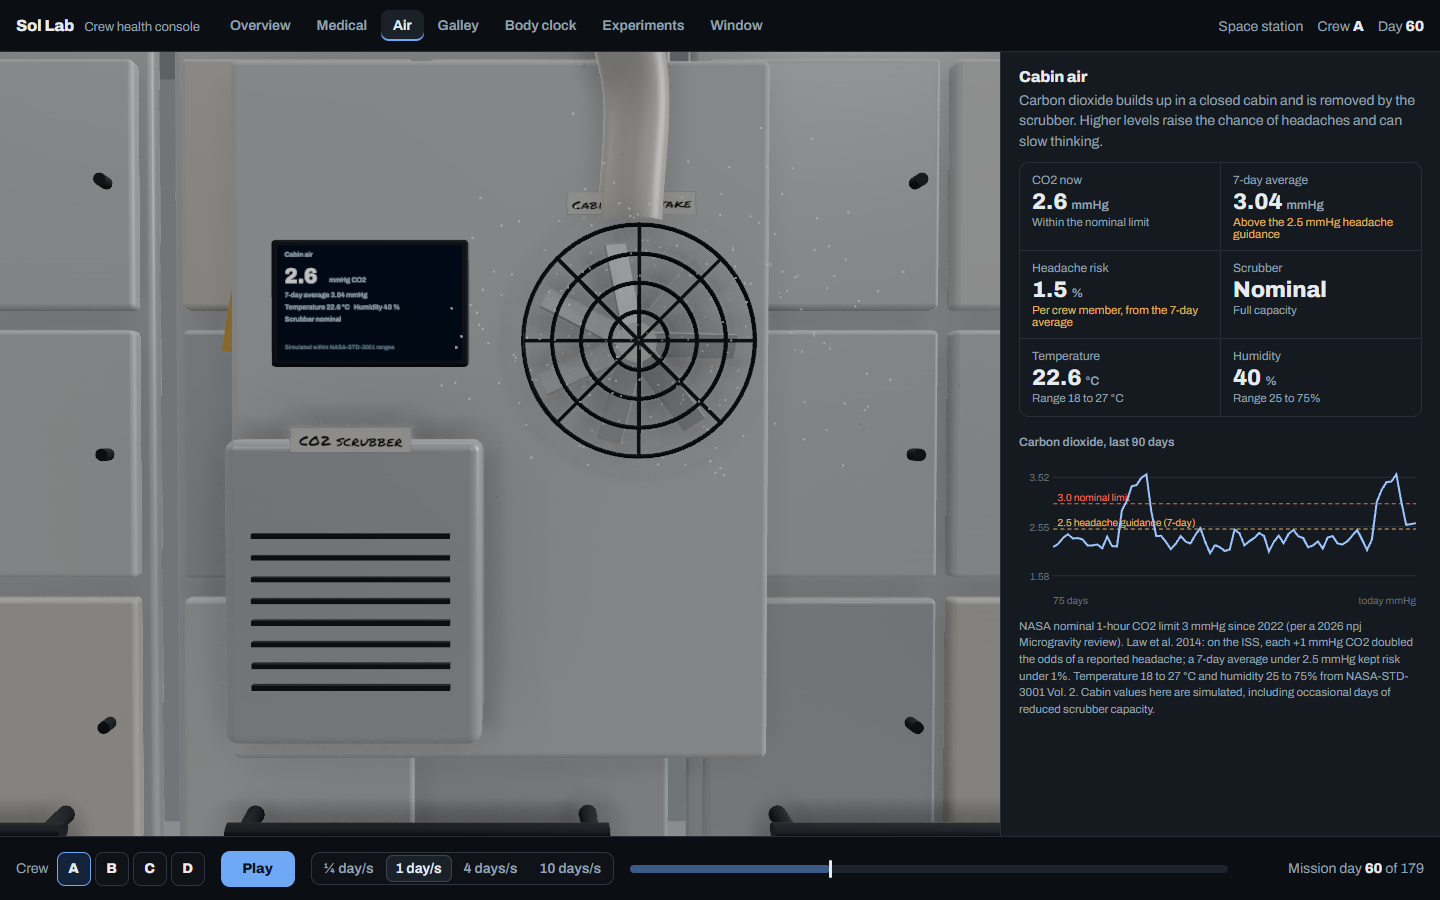
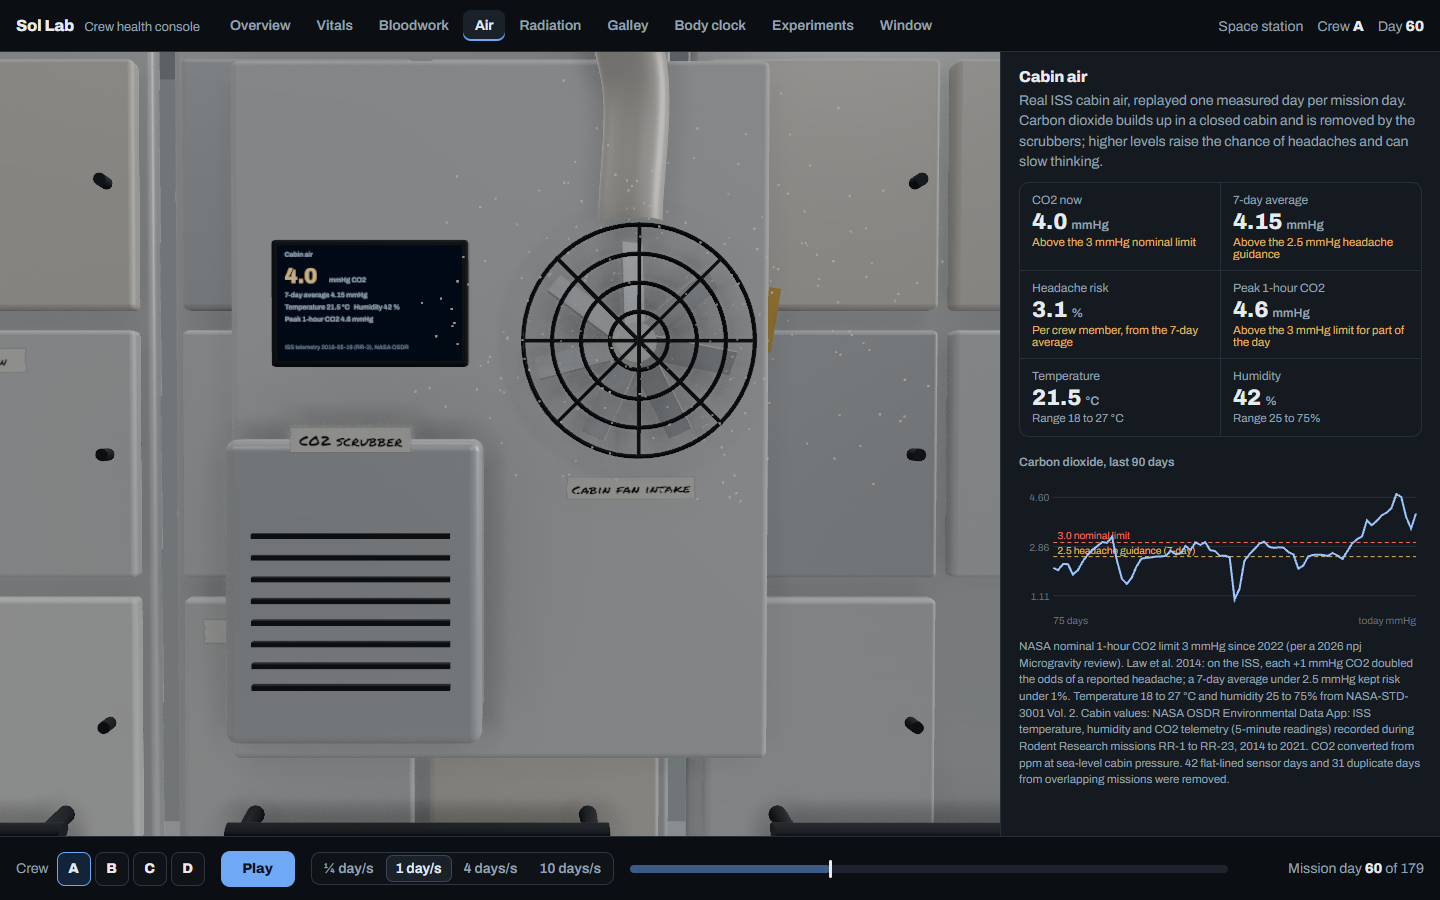
Gap analysis with 100 problems; radiation by ISS module
docs/GAP_ANALYSIS.md scores Sol Lab against VITA (strongest public entry)
and lists 100 problems by severity. Radiation panel adds a six-module dose
comparison from REM detectors (NASA OSDR RadLab, Dec 2019).

diff --git a/lab/src/main.js b/lab/src/main.js
@@ -311,6 +311,8 @@ async function boot() {
         <h3 id="radH">Daily dose</h3><div class="charts" id="radChart"></div>
         <h3>Where it comes from</h3>
         <p>Over these ${radDaily.length} days the station spent about ${Math.round(RAD.saa.minutes_per_day)} minutes a day in the South Atlantic Anomaly, where Earth's inner radiation belt dips low over South America, and collected ${Math.round(RAD.saa.share * 100)}% of its dose there. The rest is mostly galactic cosmic rays and outer-belt particles at high latitudes. The marker on the globe flies the real track of ${esc(RAD.track_date)}.</p>
+        <h3>By module (same detector type, Dec 2019)</h3><div class="bars" id="radMods">${(() => { const mx = Math.max(...RAD.modules.map((m) => m.dose)); return RAD.modules.map((m) => `<div class="row"><span>${esc(m.module)}</span><span class="track"><span class="fill ok" style="width:${((m.dose / mx) * 100).toFixed(1)}%;background:#6fa8f5"></span></span><span class="v">${Math.round(m.dose)} µGy/day</span></div>`).join(""); })()}</div>
+        <p class="src">${esc(RAD.modules_source)} The most exposed module received about ${(RAD.modules[RAD.modules.length - 1].dose / RAD.modules[0].dose).toFixed(1)} times the dose of the least, a difference shielding and where crew sleep can use. Detectors sit at fixed spots, so this is the dose at that spot, not the whole module.</p>
         <div class="legend"><span>Dose rate</span><i style="background:linear-gradient(90deg,#5a9ef2,#80d1b8,#f0c259,#f06b5c)"></i><span>2 to 300+ µGy/h</span></div>
         <p class="src">${esc(RAD.source)} Daily dose: time-weighted average rate on days with at least 20 hours of readings (${radDaily.length} days, ${esc(radDates[0])} to ${esc(radDates[radDates.length - 1])}); median ${Math.round(median)} µGy a day, in line with DLR's published 250 to 290 µGy a day for this detector. This is absorbed dose in a silicon detector. NASA's career limit (600 mSv) is set in effective dose, a different quantity that accounts for radiation type and the body's own shielding, so the two are not compared here.</p>`;
     },

diff --git a/lab/src/sim/realdata.test.js b/lab/src/sim/realdata.test.js
@@ -14,6 +14,8 @@ describe("real mission data files", () => {
     expect(top[1]).toBeGreaterThan(-90);
     expect(top[1]).toBeLessThan(0);
     expect(r.saa.share).toBeGreaterThan(0.3);
+    expect(r.modules.length).toBeGreaterThanOrEqual(5);
+    for (const m of r.modules) expect(m.dose).toBeGreaterThan(100), expect(m.dose).toBeLessThan(1500);
   });
 
   it("Inspiration4 bloodwork: four crew, seven draws, values inside physical bounds", () => {

diff --git a/lab/scripts/build_radiation.py b/lab/scripts/build_radiation.py
@@ -77,12 +77,28 @@ for t, r, lat, lon in rows:
         track.append([round((t - datetime.combine(day0, datetime.min.time())).total_seconds() / 3600, 4), round(lat, 2), round(lon, 2), round(r, 2)])
         last = t
 
+# Dose by module: the REM detectors log one daily-average rate per unit, in six US-segment
+# modules over the same days of Dec 2019 (lab/data-raw/radlab/modules_2019-12-*.csv), so the
+# modules can be compared on one instrument type.
+mods = {}
+for f in sorted(RAW.glob("modules_2019-12-*.csv")):
+    for r in csv.DictReader(open(f, encoding="utf-8")):
+        if r["instrument"] != "REM":
+            continue
+        try:
+            mods.setdefault(r["module"], []).append(float(r["absorbed_dose_rate"]) * 24)
+        except ValueError:
+            pass
+modules = sorted(({"module": m, "dose": round(sum(v) / len(v), 1), "days": len(v)} for m, v in mods.items()), key=lambda x: x["dose"])
+
 out = {
     "source": "NASA OSDR RadLab; DOSTEL-1 (DLR, DOSIS 3D) absorbed dose rate in silicon, ISS Columbus module, Jan to Apr 2022.",
     "unit_rate": "uGy/h", "unit_daily": "uGy/day",
-    "saa": saa,
+    "saa": saa, "modules": modules,
+    "modules_source": "NASA OSDR RadLab, REM detectors, daily average absorbed dose, Dec 2019.",
     "daily": days, "grid": grid, "track_date": day0.isoformat(), "track": track,
 }
 Path("public/data/radiation.json").write_text(json.dumps(out, separators=(",", ":")), encoding="utf-8")
 ds = [d["dose"] for d in days]
+print("modules", modules)
 print("days", len(days), "daily dose min/median/max", min(ds), sorted(ds)[len(ds) // 2], max(ds), "grid", len(grid), "track", len(track), day0, "saa", saa)

diff --git a/docs/GAP_ANALYSIS.md b/docs/GAP_ANALYSIS.md
@@ -1,0 +1,172 @@
+# Gap analysis: Sol Lab against the strongest entries
+
+Written 2026-11-02, 12 days before the event. Honest by design: every item here is something a judge could hold against us.
+
+## Who we are measuring against
+
+**1. VITA** ([Nav33dCodes/vita-astronaut-health-monitor](https://github.com/Nav33dCodes/vita-astronaut-health-monitor)), the strongest public entry for our challenge we can see today (pushed 2026-11-02). Full stack: .NET 10 API, Next.js 16, PostgreSQL, live SignalR streaming, NEWS2-style early-warning score, trend lines that estimate when a limit will be crossed, alert lifecycle with escalation, PDF and Excel reports, unit and integration tests, typed API, offline-tolerant client cache. Weaknesses: all vitals simulated, alarm-centred (the thing every other entry does), 2D dashboard, no validation study.
+
+**2. AstroBone** (mysunatislam/astrobone), the only other 3D entry found: a source-labelled 3D skeletal digital twin for bone health, Vite and three.js, explicit "not a diagnostic device". The repo returned 404 on 2026-11-02 (made private or deleted), so it may still be submitted. It overlaps our two selling points: 3D and labelling what is real.
+
+**3. What 2025 global winners had in common** (from `research_notes/judging-and-rules.md`): one idea a judge can repeat in a sentence, visible use of NASA data, a working demo a judge can open, and a short clear video. Polish of the story beat breadth of features.
+
+## Scorecard (our 11 criteria, 0 to 10, our honest estimate)
+
+| Criterion | Sol Lab | VITA | Gap |
+|---|---|---|---|
+| Impact | 7 | 7 | Our impact story is split between monitoring and self-experiments |
+| Creativity | 8 | 5 | Ahead |
+| Novelty | 7.5 | 4 | Ahead, but AstroBone overlaps on 3D and labelling |
+| Challenge fit | 7 | 9 | VITA is exactly "monitoring software"; our experiments read as adjacent |
+| Scientific rigor | 9 | 5 | Ahead (pre-registered studies, cited limits) |
+| Depth of real data | 8.5 | 3 | Ahead now (ISS air, ISS radiation, Inspiration4 blood, real sleep diaries, USDA) |
+| Feasibility | 7 | 8 | VITA is built like a deployable product |
+| Profile fit (biomed) | 8 | 6 | Ahead |
+| Interactive and visual appeal | 8 | 7 | Ahead in 3D, behind in finish and responsiveness |
+| Technical depth | 8 | 8 | Different kinds: our statistics vs their systems engineering |
+| Uniqueness | 8 | 4 | Ahead |
+| **Mean** | **7.8** | **6.0** | |
+
+Where we lose: challenge fit, feasibility, and engineering finish. Where we win: rigor, data, novelty.
+
+## The five gaps that matter most
+
+1. **The story is two products.** A crew health console and a self-experiment lab. A judge has a few minutes. Fix: one sentence that ties them: "Sol Lab watches each astronaut against their own normal, then helps them test what actually fixes it." The console is the "notice", experiments are the "fix". Put this on the first screen.
+2. **Our data come from different people and different years.** Vitals use Earth volunteers, blood is from a three-day mission, radiation is 2022, cabin air is 2014 to 2021, all shown as one 180-day mission. Fix: say so on screen in one line ("a composite mission built from real records"), and give every number a real or simulated badge.
+3. **No link a judge can open, and no video.** VITA can be run; we only run on a dev machine. Fix: static build deployed (GitHub Pages or Netlify), a 30 to 60 second video, a fallback "low quality" mode for weak laptops.
+4. **"Monitoring" without notification.** We refuse alarms, correctly, but a judge will ask "how does the crew find out?" Fix: a calm daily "what changed" digest (no sounds, no red), ranked by how far from the person's own normal, each with a suggested experiment.
+5. **Engineering finish.** No CI, no end-to-end tests, an 800-line main file, desktop-only layout, untested on Safari and low-end GPUs.
+
+## 100 problems, grouped
+
+Severity: **H** could cost a placing, **M** costs points, **L** polish.
+
+### Story and pitch (1 to 12)
+1. **H** No single sentence links monitoring and experiments; the first screen does not say what the tool is for.
+2. **H** No demo video exists.
+3. **H** `docs/PITCH.md` predates the console, radiation, bloodwork and real cabin air.
+4. **H** No guided demo mode: a judge opening the app sees a busy overview and does not know where to click.
+5. **M** The verdict "not settled" (the honest common outcome) is an anticlimax in a demo; the demo script needs a case that settles.
+6. **M** No impact numbers: how many crew-days, what decisions change, what a flight surgeon gains.
+7. **M** No Earth-benefit story (people on night shifts, Antarctic stations, patients tracking their own normal).
+8. **M** README leads with "every other entry raises alerts", which reads as a dig; lead with what we do.
+9. **M** No slide deck for the live pitch.
+10. **L** Name "Sol Lab" says Mars/sol; the tool now covers much more.
+11. **L** No one-line tagline on the loading screen.
+12. **L** No team page (who did what, the biomed background behind it).
+
+### Challenge fit and rules (13 to 22)
+13. **H** Official 2026 challenge text and its dataset list are not in the repo; fit has never been checked against the exact wording.
+14. **H** No LICENSE file; the rules require open source (Apache 2.0 by default).
+15. **H** Space Apps terms not re-read this year (AI disclosure wording, submission fields).
+16. **M** Challenge datasets may include specific NASA resources we do not use; each unused one is a possible point lost.
+17. **M** The self-experiment lab may look off-topic to a judge scoring "monitoring software".
+18. **M** No explicit crew view versus flight-surgeon view; the challenge brief is likely to mention both crew and ground.
+19. **M** No handling of communication delay or loss of contact with Earth (common in the brief and in rival entries).
+20. **M** AI-use disclosure is a line in README and CREDITS, not a dedicated section with specifics.
+21. **L** Submission form text (project summary, how NASA data was used) not drafted.
+22. **L** No check that every external asset licence allows public use (fonts, textures done; re-verify all).
+
+### Data (23 to 42)
+23. **H** Heart rate, HRV and core temperature are still simulated (from published spreads), not real recordings.
+24. **H** Vitals come from Earth volunteers, not astronauts, without a visible on-screen statement.
+25. **H** Records from different people and years are stitched into one mission without a per-value source badge.
+26. **M** Bloodwork lab ranges in the source file are single (apparently male) ranges; one crew member's hemoglobin is flagged against a range that may not apply to them.
+27. **M** Bloodwork is from a three-day flight but sits inside a 180-day mission timeline.
+28. **M** Only blood count and metabolic panel used; Inspiration4 also has urine immune panels and plasma proteomics on OSDR.
+29. **M** Radiation is absorbed dose only; no dose equivalent, so no honest comparison with NASA's 600 mSv limit.
+30. **M** Radiation covers 103 days of one detector; other years and instruments exist on RadLab (a six-module comparison from Dec 2019 was added on 2026-11-02).
+31. **M** No solar particle event example, the radiation risk that actually threatens a Mars crew.
+32. **M** Cabin CO2 comes from Rodent Research telemetry; whether the sensor reads cabin average or a local spot is not confirmed.
+33. **M** RR-7 and RR-9 disagree by about 3 mmHg on the same dates; we keep one by rule, not by knowing which is right.
+34. **M** CO2 ppm to mmHg assumes 760 mmHg cabin pressure; actual ISS pressure varies slightly.
+35. **M** Menus are simulated from 19 Earth foods; NASA's real space food nutrient data are not used.
+36. **M** No water intake, hydration or urine output data.
+37. **M** No body mass, bone density or muscle data (core spaceflight risks).
+38. **M** No exercise data (treadmill, cycle, resistance device minutes).
+39. **M** No vision data (spaceflight-associated neuro-ocular syndrome is a top risk).
+40. **M** No cognition or mood data (NASA's Cognition battery, behavioural health).
+41. **L** ISS orbital elements are from one date; not refreshed at build time.
+42. **L** No data dictionary listing every field, unit, source and transform in one place.
+
+### Science and validation (43 to 54)
+43. **H** Validation studies cover the experiment engine, not the new monitoring features (usual-range flags, bloodwork flags).
+44. **M** Usual range uses 14 pre-flight days; literature (Coskun 2018) says some measures need far more samples; no per-measure warning.
+45. **M** Reference change values exist only for blood counts; metabolic panel flags rely on lab range alone.
+46. **M** Headache-risk model (Law 2014) is applied to habitat-sensor CO2, a different exposure than in the paper.
+47. **M** Core temperature rise is a fixed curve, not a fitted model with uncertainty.
+48. **M** Circadian model failed one pre-registered check; still shown as a central feature.
+49. **M** No sensitivity analysis: how flags change with baseline length or threshold.
+50. **M** No multiple-comparison control across 6 vitals x 4 crew x 180 days (expected false flags per week not shown).
+51. **M** No external review by a clinician or space-medicine person.
+52. **L** Pooling assumes crew members are exchangeable; not tested on real astronaut variance.
+53. **L** Nutrition targets mix exploration requirements and ISS practice without saying which applies.
+54. **L** No statement of what the tool should never be used for.
+
+### Features (55 to 70)
+55. **H** No calm "what changed today" digest that ranks findings by distance from personal normal.
+56. **H** No link from a finding to an experiment ("sleep latency up for 5 days: test earlier light?").
+57. **M** No exercise station (treadmill, cycle ergometer, resistance device).
+58. **M** No sleep station (crew quarters, light, noise).
+59. **M** No medication and medical-kit inventory.
+60. **M** No crew self-report (symptoms, mood, workload).
+61. **M** No trend projection (where a measure is heading), which VITA has.
+62. **M** No comparison of crew members side by side for one measure.
+63. **M** No CSV or JSON export of the data behind each chart.
+64. **M** Crew report is HTML only; no PDF.
+65. **M** Radiation module comparison is a bar list, not shown on a 3D station map.
+66. **M** No "what if" for cabin air (another crew member, scrubber failure) using real data as the base.
+67. **L** No notes or annotations on a day.
+68. **L** No search or jump-to-date.
+69. **L** No undo for experiment setup steps.
+70. **L** No settings page (units, theme, motion).
+
+### Interface and experience (71 to 82)
+71. **H** No onboarding: first-time users do not know tabs, keys or what the 3D stations are.
+72. **H** Desktop-only layout: inspector and timeline do not adapt below about 1000 px; phones and tablets break.
+73. **M** Nine tabs is a lot; group them (People: vitals, bloodwork, clock; Ship: air, radiation, galley; Science: experiments).
+74. **M** Inspector panels are long scrolls; no summary-first layout.
+75. **M** Units and decimal places vary between panels.
+76. **M** Amber is the only signal colour; colour-blind users get no second cue in some charts.
+77. **M** Hover tooltips on charts are missing; values are only readable from labels.
+78. **M** No light theme for projected demos in bright rooms.
+79. **L** Keyboard shortcut list only appears on the overview.
+80. **L** Loading screen shows plain text; no progress.
+81. **L** Status bar repeats crew and day already shown in the timeline.
+82. **L** Some copy is long; lede paragraphs run four lines.
+
+### 3D and visuals (83 to 90)
+83. **H** Station props are simple primitives; teammate's models not yet integrated.
+84. **M** No crew avatars; the module feels empty.
+85. **M** Overview camera shows the evidence chamber more than the new stations.
+86. **M** The radiation globe's halo reads as a grey ring; the base and arm look unfinished.
+87. **M** No transition cue tying a 3D station to its panel (highlight on hover, label).
+88. **L** Air particles barely visible at the new density.
+89. **L** Window Earth texture once rendered flat in a headless capture; not confirmed fixed.
+90. **L** Screens on stations are low-contrast at a distance.
+
+### Engineering and quality (91 to 97)
+91. **H** No deployed build and no hosting.
+92. **H** No continuous integration; tests run only by hand.
+93. **M** `lab/src/main.js` is about 800 lines; panels, report and timeline should be separate modules.
+94. **M** No end-to-end browser tests (tab switching, report download, keyboard) in the suite.
+95. **M** No error state if a data file fails to load (the whole app stops).
+96. **M** Not tested on Safari, Firefox, or integrated laptop GPUs.
+97. **L** Raw downloads live only on one machine; the scripts can re-fetch, but there is no single `fetch_all` command.
+
+### Docs and team (98 to 100)
+98. **M** `docs/design.md` describes an earlier version.
+99. **M** No architecture diagram of data flow from source to screen.
+100. **L** No rehearsal plan or speaker split for the live pitch.
+
+## Data still to add (ranked by value per hour)
+
+| Dataset | Where | What it adds |
+|---|---|---|
+| ISS radiation by module, Dec 2019 (REM in US Lab, Columbus, JPM, Cupola, Node 1, Node 3; SPACEDOS in the Russian segment) | NASA OSDR RadLab | Done 2026-11-02: six US-segment modules from REM detectors, 324 to 648 µGy a day |
+| More DOSTEL years (2012 to 2021) | RadLab | Solar-cycle change in dose; a full mission length with no wrap |
+| Inspiration4 urine immune panel (OSD-656) and plasma proteomics (OSD-571) | NASA OSDR | Immune response to flight, more real crew biology |
+| ISS temperature and humidity for RR-18 (Dec 2021 to Aug 2022, 8 months) | NASA OSDR EDA | A continuous 8-month cabin record |
+| EDA daily radiation with SAA split per mission | NASA OSDR EDA | A second radiation source to cross-check RadLab |
+| NASA Standard Measures or LSDA open summaries | NASA LSDA | Real astronaut vitals if any open summaries exist (check access terms) |
+| Space food nutrient tables | NASA reports | Real menu items instead of Earth equivalents |

diff --git a/docs/BUILD_LOG.md b/docs/BUILD_LOG.md
@@ -14,6 +14,8 @@ Every decision taken without the owner present is recorded here with the reason.
 | Wearable HRV + sleep diaries, 49 adults, about 4 weeks | Baigutanova et al. 2025, Scientific Data; Figshare 10.6084/m9.figshare.28509740 | CC BY 4.0 | 17.3 MB (kept out of git; derived summary committed) | Real day-to-day noise for outcome presets |
 | ISS radiation, DOSTEL-1 absorbed dose rate with position, 2022-01-01 to 2022-04-13 (123,695 readings) | NASA OSDR RadLab API (`visualization.osdr.nasa.gov/radlab/api`) | NASA open data | 11 MB raw (not in git); 47 KB summary | Radiation station: daily dose, dose map, real track |
 | Inspiration4 crew blood tests: complete blood count (OSD-569) and comprehensive metabolic panel (OSD-575), 4 crew x 7 draws | NASA OSDR | NASA open data | 18 KB raw (not in git); 6 KB summary | Bloodwork panel |
+| ISS cabin temperature, humidity and CO2, 5-minute telemetry, Rodent Research missions RR-1 to RR-23 (2014 to 2021) | NASA OSDR Environmental Data App API (`visualization.osdr.nasa.gov/eda/api/missions/<RR-n>/telemetry_data/`) | NASA open data | 58 MB raw (not in git); 40 KB summary | Air station: 358 real days |
+| ISS radiation by module, Dec 2019 (REM, DosTel2, SPACEDOS, RAD, TEPC) | NASA OSDR RadLab API | NASA open data | 20 MB raw (not in git) | Dose by module |
 
 Not downloaded: LifeSnaps (single 615 MB archive, over the 500 MB limit agreed before the build), the Figshare raw archive (19.7 GB), GLOBEM (credentialed access). The NASA SVS Moon kit failed with an SSL error, so the CC BY Solar System Scope Moon texture was used instead.
 
@@ -38,3 +40,6 @@ Not downloaded: LifeSnaps (single 615 MB archive, over the 500 MB limit agreed b
 17. **Real space-agency and space-company data added** (request: "use actual NASA and other space company test data"). Radiation: 123,695 DOSTEL-1 readings from NASA OSDR RadLab. The derived median of 304 µGy a day matches DLR's published 250 to 290 µGy a day for this detector, and the hottest map cell sits over South America (the South Atlantic Anomaly), which is where it should be; 57% of the dose came from about 53 minutes a day there. Bloodwork: the four Inspiration4 (SpaceX) astronauts' clinical panels from NASA OSDR. A test file checks both datasets for physical plausibility.
 18. **Data left out on purpose.** The OSD-575 multiplex cardiovascular panel was downloaded but not used: haptoglobin varied by a factor of about 500 within one person and C-reactive protein read far above clinical norms, so it cannot be compared with clinical ranges. Hemoglobin is labelled "percent" in the OSD-569 file, but its values and range are g/dL; the app uses g/dL. The NASA 600 mSv career limit is in effective dose and the detector measures absorbed dose in silicon, so the app does not put the two on one scale.
 19. **Tool features.** Keyboard shortcuts (1 to 9 stations, Space play, arrows step a day), a downloadable crew report (vitals, air, radiation, 14-day nutrition, bloodwork flags, sources), and a radiation station whose globe marker flies a real day of ISS track coloured by the measured dose rate.
+20. **Cabin air is now real.** 358 days of ISS telemetry from NASA OSDR's Environmental Data App replace the simulated cabin. 42 flat-lined sensor days (one value all day, e.g. 0.152 mmHg) and 31 duplicate days from overlapping missions were removed and are counted on screen. RR-7 and RR-9 disagree by about 3 mmHg in late August 2018; the row with more readings is kept, and this is listed as an open problem. The replayed days show the station above today's 3 mmHg limit in 2016, which matches the history of ISS CO2.
+21. **Radiation by module.** REM detectors logged daily averages in six US-segment modules over the same days of Dec 2019: 324 (US Lab) to 648 µGy a day (Node 1), a factor of two inside one station.
+22. **Gap analysis written** (`docs/GAP_ANALYSIS.md`): scorecard against VITA, the strongest public rival, and 100 problems ranked by severity.
